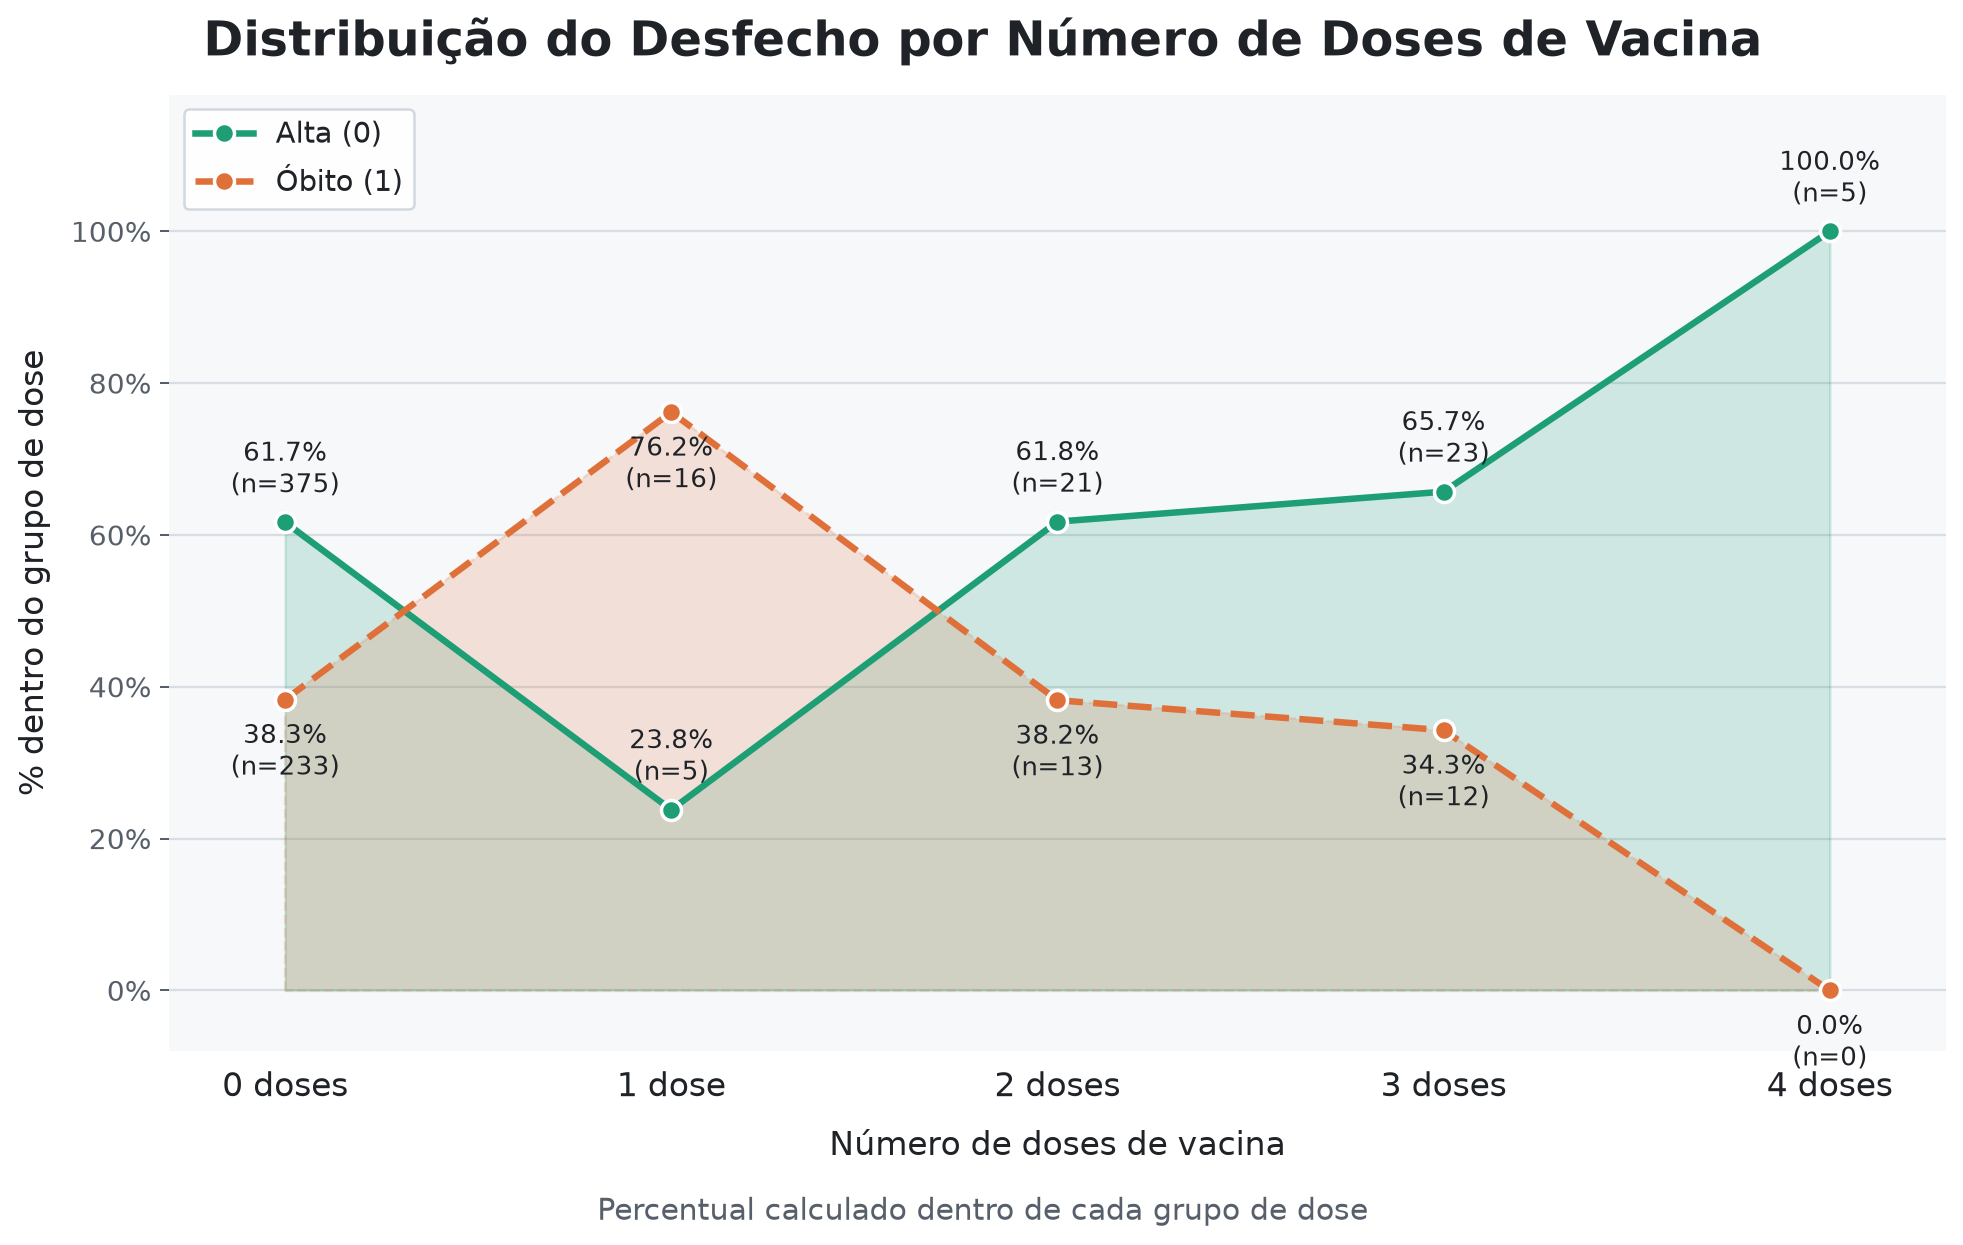
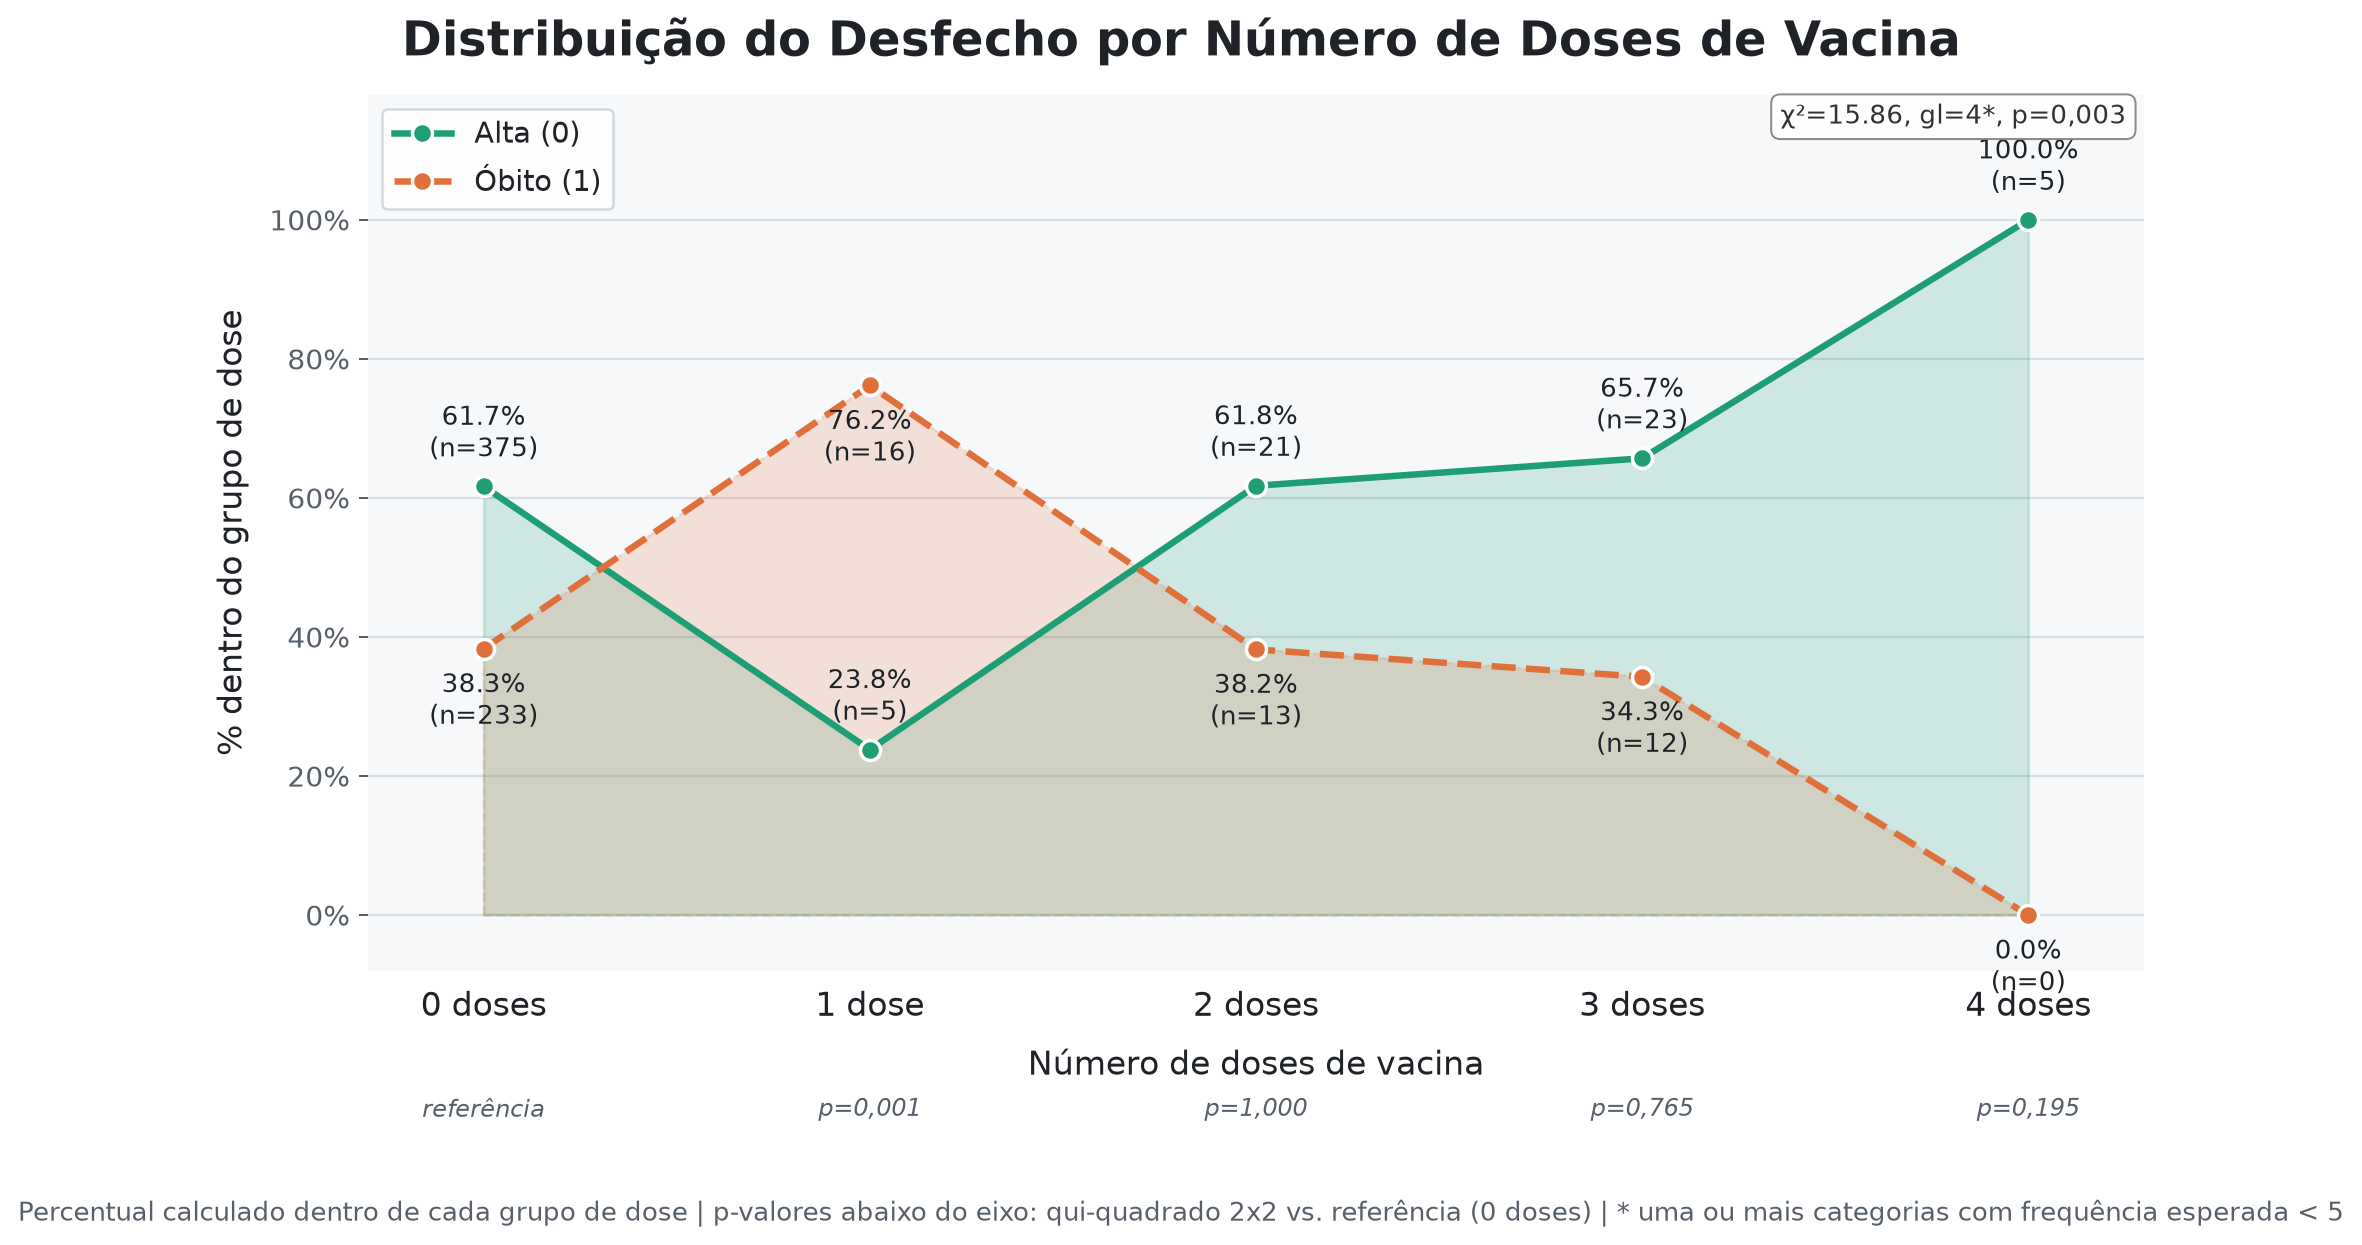
Add statistical analysis to the outcome-by-dose distribution chart
Adds a global chi-square test (dose x outcome) and pairwise 2x2
chi-square p-values against the reference group (0 doses) for each
dose category.

Claude-Session: https://claude.ai/code/session_01XH5oXC7ooCrnQVbPhtjYiY

diff --git a/23_distribuicao_desfecho_doses.py b/23_distribuicao_desfecho_doses.py
@@ -3,6 +3,7 @@ import os
 import pandas as pd
 import matplotlib.pyplot as plt
 import matplotlib.ticker as mticker
+from scipy.stats import chi2_contingency
 
 # ─────────────────────────────────────────────────────────────────────────
 XLSX_PATH = "703pacientes.xlsx"
@@ -35,7 +36,27 @@ x = list(range(len(tab)))
 labels = [DOSE_LABELS[d] for d in tab.index]
 
 # ════════════════════════════════════════════════════════════
-# 2. GRÁFICO
+# 2. ANÁLISE ESTATÍSTICA
+# ════════════════════════════════════════════════════════════
+# Teste qui-quadrado global (associação entre nº de doses e desfecho)
+chi2, p_chi2, dof, exp = chi2_contingency(tab)
+nota_exp = "*" if exp.min() < 5 else ""
+
+
+def formata_p(p):
+    return "p<0,001" if p < 0.001 else f"p={p:.3f}".replace(".", ",")
+
+
+# Comparações pareadas vs. referência "0 doses" (qui-quadrado 2x2,
+# equivalente ao teste exato de Fisher para tabelas pequenas)
+p_por_dose = {0: None}
+for dose in [1, 2, 3, 4]:
+    sub_tab = tab.loc[[0, dose]]
+    _, p_par, _, _ = chi2_contingency(sub_tab)
+    p_por_dose[dose] = p_par
+
+# ════════════════════════════════════════════════════════════
+# 3. GRÁFICO
 # ════════════════════════════════════════════════════════════
 fig, ax = plt.subplots(figsize=(11, 7), facecolor=BG)
 ax.set_facecolor(PANEL)
@@ -64,6 +85,16 @@ for xi, dose in zip(x, tab.index):
                 (xi, pct.loc[dose, "Obito"]), textcoords="offset points",
                 xytext=(0, -30), ha="center", fontsize=10.5, color=TEXT)
 
+# p-valor da comparação pareada com a referência (0 doses), logo abaixo
+# do eixo x de cada categoria
+for xi, dose in zip(x, tab.index):
+    if dose == 0:
+        texto_p = "referência"
+    else:
+        texto_p = formata_p(p_por_dose[dose])
+    ax.text(xi, -0.145, texto_p, transform=ax.get_xaxis_transform(),
+            ha="center", va="top", fontsize=9.5, style="italic", color=SUBTEXT)
+
 ax.set_xticks(x)
 ax.set_xticklabels(labels, fontsize=13, color=TEXT)
 ax.set_xlim(-0.3, len(x) - 0.7)
@@ -78,14 +109,28 @@ ax.set_ylabel("% dentro do grupo de dose", fontsize=13, color=TEXT, labelpad=8)
 ax.legend(fontsize=11.5, frameon=True, edgecolor=BORDER, facecolor=BG,
           labelcolor=TEXT, loc="upper left", framealpha=0.95)
 
+# Anotação do teste qui-quadrado global
+ax.text(0.99, 0.99, f"χ²={chi2:.2f}, gl={dof}{nota_exp}, {formata_p(p_chi2)}",
+        transform=ax.transAxes, fontsize=10.5, color="#333333",
+        ha="right", va="top",
+        bbox=dict(boxstyle="round,pad=0.35", fc="white", ec="gray",
+                  alpha=0.92, linewidth=0.8))
+
 fig.text(0.5, 0.98, "Distribuição do Desfecho por Número de Doses de Vacina",
           ha="center", va="top", fontsize=19, fontweight="bold", color=TEXT)
-fig.text(0.5, 0.02, "Percentual calculado dentro de cada grupo de dose",
-          ha="center", va="bottom", fontsize=12, color=SUBTEXT)
+fig.text(0.5, 0.02,
+          "Percentual calculado dentro de cada grupo de dose | p-valores "
+          "abaixo do eixo: qui-quadrado 2x2 vs. referência (0 doses)"
+          + (" | * uma ou mais categorias com frequência esperada < 5"
+             if nota_exp else ""),
+          ha="center", va="bottom", fontsize=10.5, color=SUBTEXT)
 
-plt.tight_layout(rect=[0, 0.05, 1, 0.94])
+plt.tight_layout(rect=[0, 0.07, 1, 0.94])
 plt.savefig(OUTPUT_PNG, dpi=180, bbox_inches="tight", facecolor=BG)
 print(f"Gráfico salvo em: {OUTPUT_PNG}")
 print(tab)
 print(pct.round(1))
+print(f"\nQui-quadrado global: chi2={chi2:.3f}, gl={dof}, p={p_chi2:.4f}")
+for dose, p_val in p_por_dose.items():
+    print(f"Dose {dose} vs. referência: {p_val}")
 plt.show()
